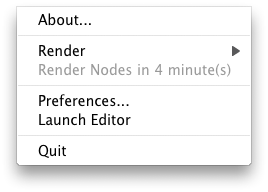
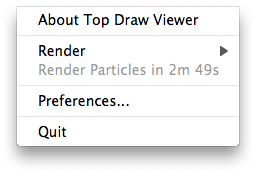
Update docs for new app setup.

Changed region(s): [[0.0312, 0.0578, 0.9688, 0.8671], [0.125, 0.0578, 0.7812, 0.1734]]

diff --git a/Documentation/TopDraw.html b/Documentation/TopDraw.html
@@ -6,9 +6,11 @@
 </head>
 <body>
 <h1>Introduction</h1>
-Top Draw is the companion program to the <a href="TopDrawViewer.html">Top Draw Viewer</a>.  The editor allows you to create, open, edit, save, and render JavaScript based Top Draw Scripts (TDS, extension ".tds").  Multiple TDS files can be opened and their results can be viewed in a preview window within the application.  
+Top Draw is a program that renders JavaScript code and creates images that can be installed as your desktop images.  The program allows you to create, open, edit, save, and render JavaScript based Top Draw Scripts (TDS, extension ".tds").  Multiple TDS files can be opened and their results can be viewed in a preview window within the application.
 <p></p>
 Once a desktop image has been rendered, you can install it onto your desktop.  You can also create a sample image (1024 x 768) that represents your script, and then upload that image, along with the TDS file which created the image, to the <a href="http://code.google.com/p/topdraw">Top Draw website</a> so that others can enjoy your artistic creation!
+<p></p>
+There is a companion program, <a href="TopDrawViewer.html">Top Draw Viewer</a>, that runs in the menubar periodically to update your desktop images.
 <p></p>
 If you've programmed using the JavaScript language, then there just a bit of new stuff to learn (See <a href="#Reference">Reference</a>).  If you've never programmed before, there are a number of example TDS files with informative comments that are included with this program that you can examine to see how it all works.  
 
@@ -17,16 +19,16 @@ When you launch the editor, any previously opened files will be automatically re
 <p>
 <img src="Images/untitled.png"/>
 <p>
-Keywords for Javascript will be highlighted in blue and Top Draw script variables and classes will be highlighted in green.  The text in the lower left corner will indicate if the TDS is idle, rendering, or finished rendering.  If there were any errors in the file, the line with the problem will be highlighted in red.
+Keywords for Javascript will be highlighted in blue and TDS variables and classes will be highlighted in green.  The text in the lower left corner will indicate if the TDS is idle, rendering, or finished rendering.  If there were any errors in the file, the line with the problem will be highlighted in red.  Correct the change and re-render.
 <p>
 The Preview window will also open.  If you choose the "Render" item from the Drawing menu, you'll see the preview window update to show a scaled representation of your desktop, something like this:
 <p>
 <img src="Images/preview.png"/>
 <p>
 If you like this image and want to install it on your desktop, you can choose the "Install onto Desktop" item from the Drawing menu.  The image file (or files if you have multiple displays) will be set as your desktop.  You can use System Preferences to set your desktop back to the original image if you change your mind.
+The most recent 10 images will be saved in ~/Library/Application Support/Google/TopDraw.
 
 <h1>Menus</h1>
-
 
 <div>
 <img class="RightEdge" src="Images/file.png"/>
@@ -108,6 +110,32 @@ After a TDS file has been modified, this option will be enabled and if selected,
 
 </table>
 </div>
+
+<p></p>
+<div>
+<img class="RightEdge" src="Images/viewer.png"/>
+
+<table class="Menu" border="1">
+<tr>
+<th class="Menu">Viewer&nbsp;Menu</th>
+<th class="Menu">Description</th>
+</tr>
+
+<tr>
+<td class="MenuItem">Launch</td>
+<td class="Menu">Launch the Top Draw Viewer application or active it, if it's already running.</td>
+</tr>
+
+<tr>
+<td class="MenuItem">Launch at Startup</td>
+<td class="Menu">Control the launching of the Top Draw Viewer as a Login Item.  This item will be checked to indicate if
+the viewer will be automatically launched at login.  You can also control this from the System Preferences > Accounts > Login Items tab.
+</td>
+</tr>
+
+</table>
+</div>
+
 <p></p>
 <div>
 <img class="RightEdge" src="Images/window.png"/>
@@ -135,6 +163,7 @@ After a TDS file has been modified, this option will be enabled and if selected,
 
 </table>
 </div>
+
 
 <a name="Reference"></a>
 <h1>Reference</h1>
@@ -333,7 +362,8 @@ source-out, source-atop, destination-over, destination-in, destination-out, dest
 <tr>
 <td class="Function">boundsOfScreen</td>
 <td class="FunctionDetails">index: integer</td>
-<td class="FunctionDetails">Return a Rect object that is the bounds of the screen specified by zero-based index.
+<td class="FunctionDetails">Return a Rect object that is the bounds of the screen specified by zero-based index.  The number of screens
+can be determined by the screenCount property.
 <td class="FunctionDetails">Rect</td>
 </tr>
 
@@ -383,7 +413,8 @@ This class encapsulates Core Image filters.  Filters can be chained together to 
 
 <tr>
 <td class="ConstructorDetails">(none)</td>
-<td class="ConstructorDetails">Creates a dynamic filter that can use provided GLSL source.</td>
+<td class="ConstructorDetails">Creates a dynamic filter that will use the contents of the kernelSource property for rendering. 
+</td>
 </tr>
 
 <tr>

diff --git a/Documentation/TopDrawViewer.html b/Documentation/TopDrawViewer.html
@@ -1,15 +1,17 @@
 <html>
 <head>
 <meta http-equiv="content-type" content="text/html; charset=utf-8">
-<title>Top Draw</title>
+<title>Top Draw Viewer</title>
 <link rel="stylesheet" type="text/css" href="Top Draw.css" />
 </head>
 <body>
 <h1>Introduction</h1>
-Top Draw is a program that will run a JavaScript based script to create an image
+Top Draw Viewer is the companion program to the <a href="TopDraw.html">Top Draw</a>.
+Both programs will evaluate a JavaScript based script to create an image
 that can be set as the Desktop Picture.  Scripts can be downloaded or created and placed
-in a common folder on your computer.  Several example scripts are included with
-the application disk image.
+in a common folder on your computer (typically ~/Library/Application Support/Google/TopDraw).
+Several example scripts are included with the application and automatically installed
+into that folder.
 <p>
 The application runs as a Status Item, which means that there is no front window
 or icon in the dock.  Instead, there will be a colored shape in the menu bar to indicate the
@@ -41,19 +43,12 @@ choose another item from the popup menu list.</td>
 <td class="MenuItem" style="color: gray;">Render...</td>
 <td class="Menu"> The name of the currently
 active script and the remaining time until it is rendered is listed.  In this example,
-the Top Draw Script "Nodes" will be rendered and installed as your desktop in about 4 minutes.</td>
+the script "Particles" will be rendered and installed as your desktop in about 2 minutes and 49 seconds.</td>
 </tr>
 
 <tr>
 <td class="MenuItem">Preferences...</td>
 <td class="Menu"> Set the script, update interval, etc. as described below.</td>
-</tr>
-
-<tr>
-<td class="MenuItem">Launch&nbsp;Editor</td>
-<td class="Menu"> If you've installed the 
-<a href="TopDrawEditor.html">Top Draw Editor</a>, this menu item will be shown.  When chosen,
-it will launch the editor with the currently active script.</td>
 </tr>
 
 <tr>
@@ -111,11 +106,13 @@ when idle or actively rendering a desktop.  You may also choose a pleasing geome
 </div>
 
 <h1>Top Draw Scripts</h1>
-Top Draw reads Top Draw Script (.tds) files and renders them into images which are installed on your desktop.  The distribution of Top Draw should contain a folder named "Top Draw Scripts" which contains example script files.
+Top Draw reads Top Draw Script (.tds) files and renders them into images which are installed on your desktop.  The Top Draw application
+contains a ZIP archive of several example script files.  When the program is first launched, it will extract and copy the scripts
+into ~/Library/Application Support/Google/TopDraw/Scripts.
 <p>
 If you're not interested in programming, you can visit the Top Draw project <a href="http://code.google.com/p/topdraw/wiki/Gallery">Wiki Gallery</a> site and download new script files.  You can then copy those files into the Script Folder that you've configured Top Draw to use.  If you open the Preferences window, the new script(s) will be available for your selection.
 <p>
-The scripts use the JavaScript programming language, with enhancements, to provide the instructions to render.  If you'd like to learn more about these, please see the <a href="TopDrawEditor.html">Top Draw Editor</a> documentation.
+The scripts use the JavaScript programming language, with enhancements, to provide the instructions to render.  If you'd like to learn more about these, please see the <a href="TopDraw.html">Top Draw</a> documentation.
 
 <h1>Requirements</h1>
 Top Draw requires a Macintosh computer running Mac OS X 10.5 (Leopard) or later.
